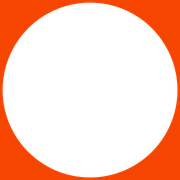
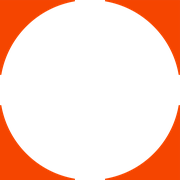
Monogramme : les vrais fichiers du designer, et trait des étapes conforme
Le monogramme était redessiné en SVG à la main, avec un cercle trop petit qui
laissait un anneau bleu continu. Le vrai logo (acheté au designer) a un cercle
tangent aux quatre côtés du carré : il ne reste que les quatre coins, séparés.

Les quatre déclinaisons officielles sont désormais extraites de la maquette XD
et versionnées telles quelles — crème (fonds bruns/bleus), orange (fonds crème,
header, favicon), bleue (pastilles Sur-mesure) et brune. AltoMark sert ces
fichiers au lieu de redessiner la forme, et le favicon utilise le vrai logo.

Trait des étapes Sur-mesure, mesuré sur la maquette et rapporté aux bords du
carré : il démarre au bord sortant du logo et se termine dans le disque évidé du
suivant, contre le chiffre. Il ne déborde donc plus à gauche dans son propre
logo (desktop) et rejoint bien le chiffre du dessous (mobile).

Tailles de texte : la maquette mobile (484px) emploie les mêmes corps que la
desktop (1920px) ; les clamp() étaient calés bien trop bas sur mobile.

Changed region(s): [[0.0, 0.0, 1.0, 1.0]]

diff --git a/client/src/pages/CreationsSurMesure.tsx b/client/src/pages/CreationsSurMesure.tsx
@@ -59,49 +59,99 @@ export default function CreationsSurMesure() {
         </div>
       </section>
 
-      {/* Process : 4 pastilles Alto bleues numérotées, reliées par la ligne bleue. */}
+      {/* Process : 4 pastilles (logo Alto bleu) numérotées, reliées par le trait bleu.
+          Le trait est porté par chaque étape sauf la dernière et relie sa pastille
+          à la suivante :
+          - mobile (vertical) : il part du bas du carré du logo et monte jusqu'au
+            haut du chiffre suivant, sans marge ;
+          - desktop (horizontal) : même tracé de gauche à droite, mais avec une
+            marge visible à chaque extrémité — il ne touche ni le carré ni le chiffre.
+          Le chiffre est bleu sur mobile, crème sur desktop, et légèrement décentré
+          vers le haut du logo dans les deux cas. */}
       <section className="mx-auto max-w-[1920px] px-6 py-16 md:px-[10.9vw] md:py-24">
-        <ol className="relative grid gap-y-10 md:grid-cols-4 md:gap-x-[12%] md:gap-y-0">
-          {/* Ligne bleue — mobile : verticale, bornée au centre des pastilles
-              extrêmes (la pastille fait 4rem, donc 2rem de marge haut/bas). */}
-          <span
-            aria-hidden="true"
-            className="absolute left-8 top-8 bottom-8 w-[3px] bg-alto-blue md:hidden"
-          />
-          {/* Ligne bleue — desktop : horizontale, à hauteur du centre des
-              pastilles (168px sur 1920 → 8.75vw), bornée d'un demi-pas. */}
-          <span
-            aria-hidden="true"
-            className="absolute hidden h-[3px] bg-alto-blue md:block"
-            style={{
-              top: "calc(min(8.75vw, 168px) / 2)",
-              left: "calc((100% - 3 * 12%) / 8)",
-              right: "calc((100% - 3 * 12%) / 8)",
-            }}
-          />
-
+        <ol
+          className="sm-steps grid gap-y-10 md:grid-cols-4 md:gap-x-0 md:gap-y-0"
+          style={
+            {
+              /* Mesures de la maquette, rapportées aux bords du carré (--sm-mark
+                 est défini dans index.css, en responsive) : le trait démarre 11 %
+                 après le bord sortant du logo et se termine 25 % après le bord
+                 entrant du logo suivant — il pénètre donc dans le disque évidé et
+                 vient buter contre le chiffre. */
+              "--sm-out": "calc(0.11 * var(--sm-mark))",
+              "--sm-in": "calc(0.25 * var(--sm-mark))",
+            } as React.CSSProperties
+          }
+        >
           {STEPS.map((n) => (
             <li
               key={n}
               className="relative flex items-start gap-5 md:block md:text-center"
             >
-              <div className="relative z-10 h-16 w-16 shrink-0 text-alto-blue md:mx-auto md:h-[8.75vw] md:max-h-[168px] md:w-[8.75vw] md:max-w-[168px]">
-                <AltoMark className="h-full w-full" title={`Étape ${n}`} />
+              {/* Desktop : le trait relie cette pastille à la suivante en passant
+                  par les disques évidés — il s'arrête juste avant chaque chiffre.
+                  Les colonnes étant jointives, le pas centre-à-centre vaut
+                  exactement la largeur du <li>, soit 100 %. */}
+              {n < STEPS.length && (
+                <>
+                  {/* Mobile : trait vertical, calé sur l'axe du monogramme. Il part
+                      du bas du carré (+ marge sortante) et descend jusqu'au carré
+                      de l'étape suivante — donc par-dessus tout le bloc de texte,
+                      quelle que soit sa hauteur (le <li> suivant commence après le
+                      gap-y-10) — puis pénètre dans son disque jusqu'au chiffre. */}
+                  <span
+                    aria-hidden="true"
+                    className="absolute w-[3px] bg-alto-blue md:hidden"
+                    style={{
+                      left: "calc(var(--sm-mark) / 2)",
+                      transform: "translateX(-50%)",
+                      /* le trait démarre au ras du carré, sans marge */
+                      top: "var(--sm-mark)",
+                      bottom: "calc(-2.5rem - var(--sm-in))",
+                    }}
+                  />
+                  {/* Desktop : trait horizontal — du bord droit du carré (+ marge
+                      sortante) jusque dans le disque du logo suivant (+ marge
+                      entrante). Colonnes jointives : le pas vaut 100 %. */}
+                  <span
+                    aria-hidden="true"
+                    className="absolute hidden h-[3px] bg-alto-blue md:block"
+                    style={{
+                      top: "calc(var(--sm-mark) / 2)",
+                      left: "calc(50% + var(--sm-mark) / 2 + var(--sm-out))",
+                      width:
+                        "calc(100% - var(--sm-mark) - var(--sm-out) + var(--sm-in))",
+                    }}
+                  />
+                </>
+              )}
+
+              <div className="relative h-16 w-16 shrink-0 md:mx-auto md:h-[8.75vw] md:max-h-[168px] md:w-[8.75vw] md:max-w-[168px]">
+                {/* Monogramme du designer, déclinaison bleue (disque évidé). */}
+                <AltoMark color="blue" className="h-full w-full" title="" />
+                {/* Chiffre bleu, posé dans le disque évidé du logo (donc sur le
+                    fond crème de la section) et légèrement remonté par rapport au
+                    centre du carré. */}
                 <span
-                  className="absolute inset-0 flex items-center justify-center font-bold text-alto-blue text-[clamp(24px,4.3vw,83px)]"
+                  className="absolute inset-0 flex items-start justify-center pt-[16%] font-bold leading-none text-alto-blue text-[7.2vw] md:pt-[13%] md:text-[clamp(28px,4.32vw,83px)]"
                   style={{ fontFamily: "var(--font-titles)" }}
                 >
                   {n}
                 </span>
+
               </div>
+              {/* Corps de texte : la maquette mobile (484px) emploie les mêmes
+                  tailles que la desktop (1920px) — 45px pour le titre d'étape,
+                  22px pour la description. Les vw diffèrent donc selon la base :
+                  45/484 = 9.3vw sur mobile, 45/1920 = 2.34vw à partir de md. */}
               <div className="md:mt-6">
                 <h3
-                  className="font-bold text-alto-orange text-[clamp(18px,2.3vw,45px)]"
+                  className="font-bold text-alto-orange text-[9.3vw] md:text-[clamp(24px,2.34vw,45px)]"
                   style={{ fontFamily: "var(--font-titles)" }}
                 >
                   {t(`sm.step${n}.title`)}
                 </h3>
-                <p className="mt-2 leading-relaxed text-alto-brown dark:text-alto-cream/90 text-[clamp(11px,1.15vw,22px)] md:mx-auto md:max-w-[316px]">
+                <p className="mt-2 leading-relaxed text-alto-brown text-[4.5vw] md:mx-auto md:max-w-[316px] md:text-[clamp(13px,1.15vw,22px)]">
                   {t(`sm.step${n}.text`)}
                 </p>
               </div>

diff --git a/client/src/components/alto/AltoBrand.tsx b/client/src/components/alto/AltoBrand.tsx
@@ -1,28 +1,32 @@
 /**
  * Éléments d'identité Alto Lille (maquette RARE.design).
- * Le monogramme est un carré plein percé d'un cercle (fill-rule evenodd),
- * il hérite de currentColor pour s'adapter à tous les fonds.
+ *
+ * Le monogramme n'est PAS redessiné : ce sont les fichiers livrés par le
+ * designer, extraits de la maquette XD (Fichier 10/11/13/19 V1.png). Chaque
+ * couleur est une déclinaison officielle distincte — ne jamais recolorier ni
+ * recréer la forme.
  */
 
+type AltoMarkColor = "cream" | "orange" | "blue" | "brown";
+
 interface AltoMarkProps {
+  /** cream = fonds bruns/bleus · orange = fonds crème · blue = pastilles · brown */
+  color?: AltoMarkColor;
   className?: string;
   title?: string;
 }
 
-export function AltoMark({ className = "h-9 w-9", title }: AltoMarkProps) {
+export function AltoMark({
+  color = "orange",
+  className = "h-9 w-9",
+  title,
+}: AltoMarkProps) {
   return (
-    <svg
-      viewBox="0 0 100 100"
+    <img
+      src={`/images/alto/mark-alto-${color}.png`}
+      alt={title ?? "Alto Lille"}
       className={className}
-      role="img"
-      aria-label={title ?? "Alto Lille"}
-    >
-      <path
-        fill="currentColor"
-        fillRule="evenodd"
-        d="M0 0h100v100H0V0zm50 1.5A48.5 48.5 0 1 0 50 98.5 48.5 48.5 0 0 0 50 1.5z"
-      />
-    </svg>
+    />
   );
 }
 

diff --git a/client/src/index.css b/client/src/index.css
@@ -332,3 +332,17 @@
     box-shadow: 0 4px 16px rgba(59, 130, 246, 0.3);
   }
 }
+
+/* Sur-mesure — process en 4 étapes.
+   La taille de la pastille (monogramme Alto) pilote les marges du trait qui
+   relie les étapes : 4rem sur mobile, 8.75vw (= 168px sur la maquette 1920)
+   à partir de md. */
+.sm-steps {
+  --sm-mark: 4rem;
+}
+
+@media (min-width: 768px) {
+  .sm-steps {
+    --sm-mark: min(8.75vw, 168px);
+  }
+}
